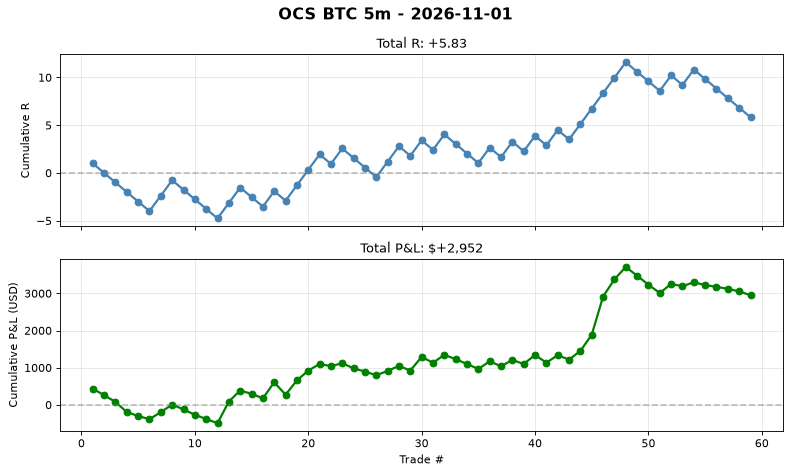
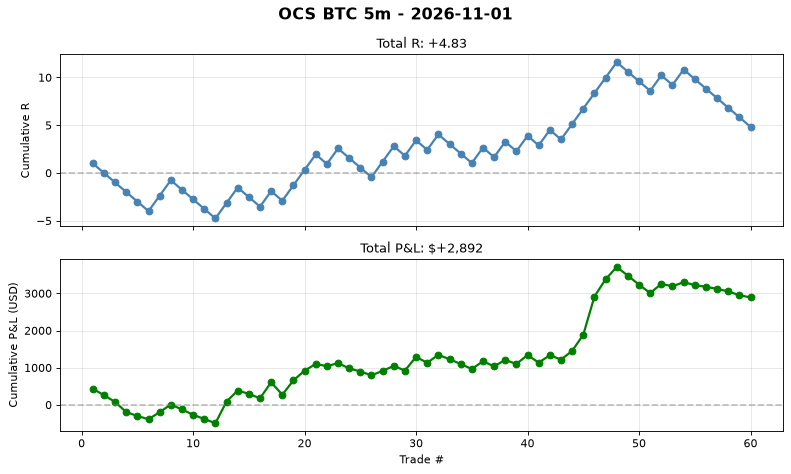
auto(ocs-btc): signal log 2026-11-01T09:14 trades=60

diff --git a/automation/reports/ocs_btc_5m/daily/2026-11-01.md b/automation/reports/ocs_btc_5m/daily/2026-11-01.md
@@ -1,12 +1,12 @@
 # OCS BTC 5m - 2026-11-01
 
 ## Summary
-- **Trades**: 3 (0W / 3L)
+- **Trades**: 4 (0W / 4L)
 - **Win Rate**: 0.0%
-- **Total R**: -3.00R
-- **Total P&L**: $-224
+- **Total R**: -4.00R
+- **Total P&L**: $-285
 - **Avg R**: -1.00R
-- **Profit Factor**: 1.17
+- **Profit Factor**: 1.14
 
 ## Exit Breakdown
 - T1 (+1.0R): 1
@@ -14,7 +14,7 @@
 - T3 (+2.618R): 0
 - T4 (+3.618R): 0
 - T5 (+5.0R): 0
-- SL (-1.0R): 34
+- SL (-1.0R): 35
 
 ## Best Trade
 - **SHORT** at 77,378 -> SL 77,431
@@ -27,11 +27,11 @@
 - Held for 2 bars
 
 ## Cumulative Stats (Lifetime)
-- Total trades: 59
-- WR: 42.4%
-- Avg R: 0.099
-- Total R: +5.83R
-- Profit Factor: 1.17
+- Total trades: 60
+- WR: 41.7%
+- Avg R: 0.081
+- Total R: +4.83R
+- Profit Factor: 1.14
 
 ## Chart
 See `daily/2026-11-01.png` for cumulative P&L curve.
